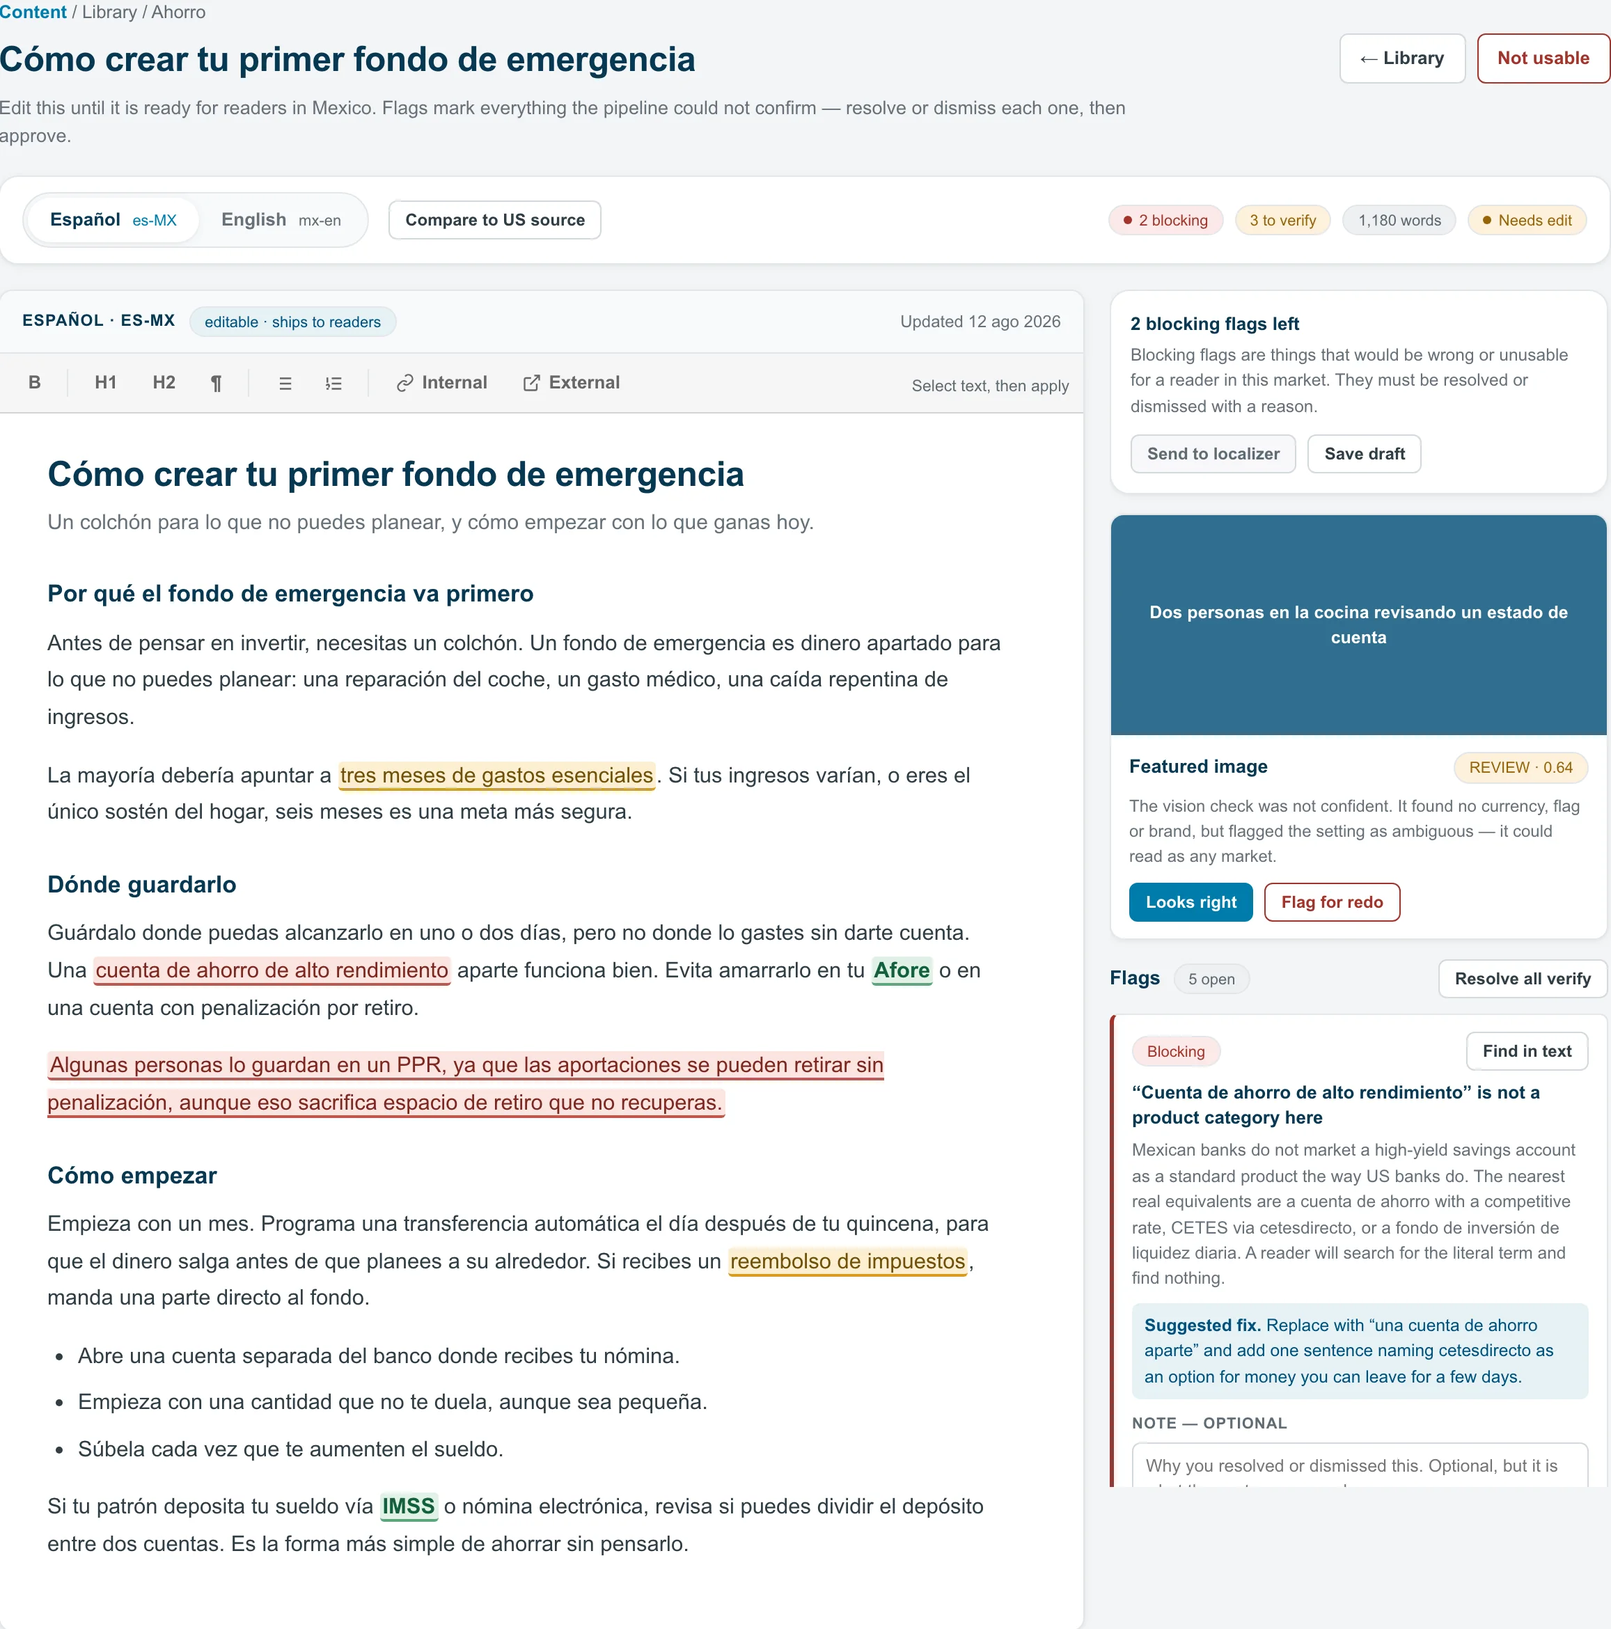
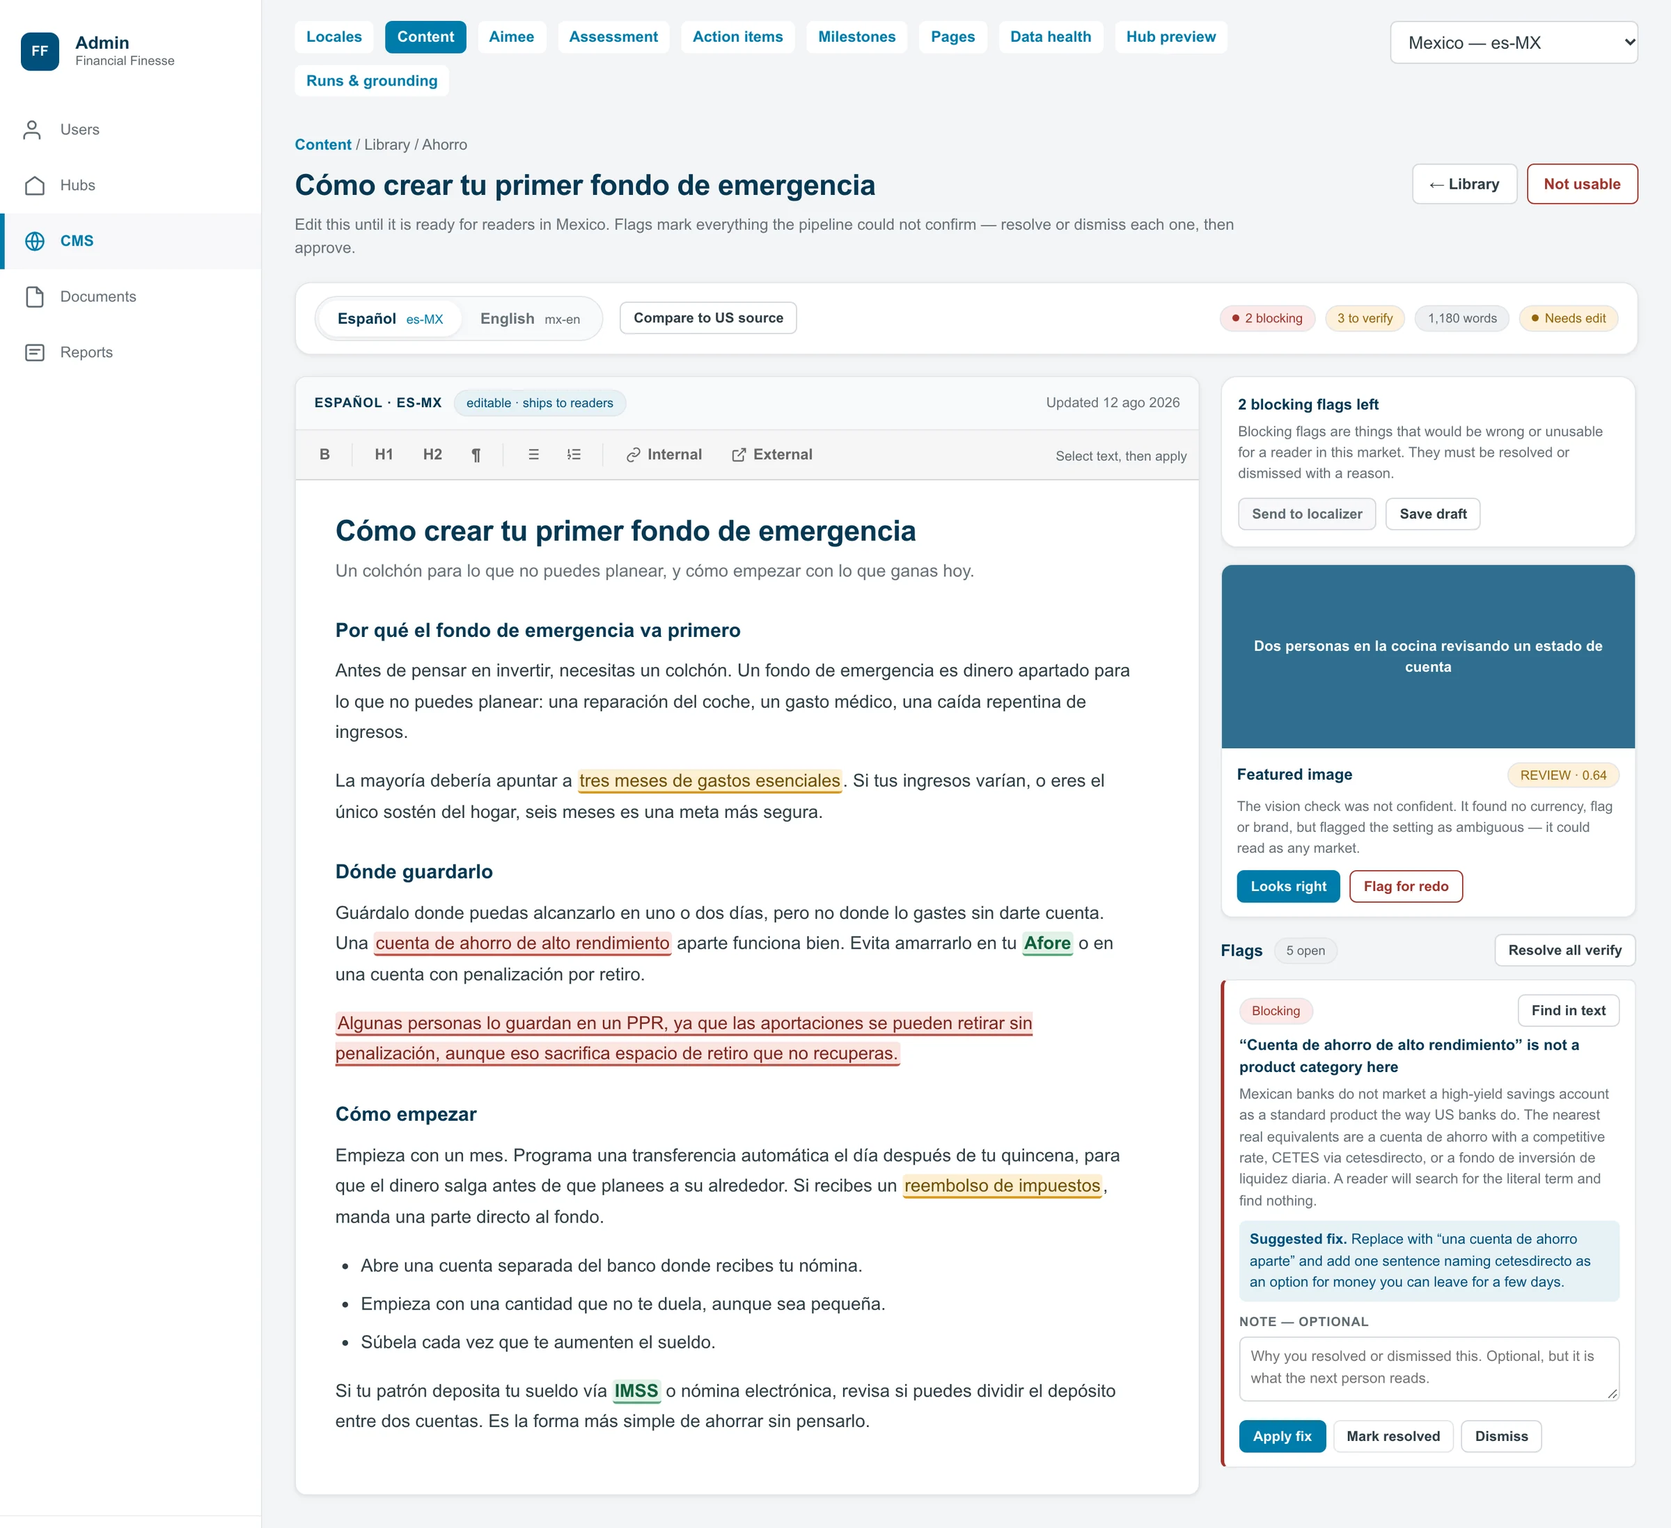
Studio case study: plain, conversational headlines, the move into the internal CMS as its own story, and the review screenshot re-rendered whole.

diff --git a/work/global-content-studio/index.html b/work/global-content-studio/index.html
@@ -67,7 +67,7 @@
         <div class="hero-facts fade-up" style="transition-delay:130ms">
           <div class="hero-fact"><div class="hero-fact-val">70</div><div class="hero-fact-label">Countries planned by the end of 2026</div></div>
           <div class="hero-fact"><div class="hero-fact-val">25</div><div class="hero-fact-label">Markets live today, Sep 2026</div></div>
-          <div class="hero-fact"><div class="hero-fact-val">8,118</div><div class="hero-fact-label">Localized variants in the live index</div></div>
+          <div class="hero-fact"><div class="hero-fact-val">8,118</div><div class="hero-fact-label">Localized pieces, live today</div></div>
           <div class="hero-fact"><div class="hero-fact-val">4 wk</div><div class="hero-fact-label">First commit to launch QA, solo</div></div>
         </div>
 
@@ -89,18 +89,18 @@
       <!-- 01 · AT A GLANCE -->
       <section class="section" id="glance">
         <div class="section-head fade-up">
-          <div><span class="section-n">01 · At a glance</span><h2>I saw the gap, built v1 alone, and rebuilt it twice with engineers</h2></div>
+          <div><span class="section-n">01 · At a glance</span><h2>The short version</h2></div>
           <p class="section-lead">Nobody asked for this. I named the risk, built the first version myself, and carried it through two rebuilds as the company made it part of its platform.</p>
         </div>
         <div class="glance fade-up">
           <div><h3>The problem</h3><p>Writers drafted on personal AI tools. Drafts drifted off-voice, and nobody recorded which claims had been checked. Then the company set its sights on new markets.</p></div>
           <div><h3>The bet</h3><p>A studio that already knows our voice, our compliance rules, and each market's facts, with a person signing off on everything.</p></div>
-          <div><h3>My role</h3><p>v1 designed and coded solo. In v2 and v3 I specced and built the review experience while engineers rebuilt the pipeline.</p></div>
+          <div><h3>My role</h3><p>I designed and coded the first version alone. After that, I designed and built the review screens while engineers rebuilt the engine.</p></div>
         </div>
         <div class="rows fade-up">
           <div class="row"><h3>Team</h3><p>v1 solo · v2 and v3 with two engineers · localizers reviewing the output</p></div>
           <div class="row"><h3>Built with</h3><p>TypeScript · Lit · React · Python · a Cloudflare Worker · Azure · Anthropic and Gemini APIs · built with Claude Code</p></div>
-          <div class="row"><h3>Status</h3><p>In production · 8,118 localized variants across 28 locales, Sep 8, 2026</p></div>
+          <div class="row"><h3>Status</h3><p>Live · 8,118 localized pieces across 28 languages and regions, Sep 8, 2026</p></div>
         </div>
       </section>
 
@@ -108,13 +108,13 @@
       <section class="section" id="v1">
         <span id="architecture" class="anchor-alias" aria-hidden="true"></span>
         <div class="section-head fade-up">
-          <div><span class="section-n">02 · v1, built alone</span><h2>Four weeks from first commit to launch QA</h2></div>
-          <p class="section-lead">Every draft carries the voice pillars, the compliance rules, and the schema for its content type. The model cites a source or flags the claim.</p>
+          <div><span class="section-n">02 · v1, built alone</span><h2>I built the first version alone, in four weeks</h2></div>
+          <p class="section-lead">Every draft starts with our voice, our compliance rules, and the right format. If the AI can't point to a source for a fact, it flags it for a person.</p>
         </div>
         <div class="screens fade-up">
           <figure class="screen">
             <div class="frame"><img src="/images/Global Content Studio Case Study/gcs-korean.webp" alt="The authoring studio drafting a Korean quiz about saving for a home, with an Accuracy Check panel listing five claims to confirm, each with the figure in question and the official source to check" loading="lazy" width="2400" height="1483"></div>
-            <figcaption><b>Uncertainty shown, not hidden</b>Five claims the model couldn't tie to a source, each with the exact figure and the government page to check. "5 to review" is a to-do, not a score.</figcaption>
+            <figcaption><b>Uncertainty shown, not hidden</b>Five facts the AI couldn't tie to a source, each with the exact figure and the government page to check. "5 to review" is a to-do, not a score.</figcaption>
           </figure>
         </div>
       </section>
@@ -123,8 +123,8 @@
       <section class="section" id="turn">
         <span id="atlas" class="anchor-alias" aria-hidden="true"></span>
         <div class="section-head fade-up">
-          <div><span class="section-n">03 · Going global</span><h2>Localizing means rewriting for the market</h2></div>
-          <p class="section-lead">"Contribute to your 401(k)" in French is still wrong when every word is right. Each article gets a fit check, local research, a rewrite, a separate verify pass, and a localizer's sign-off.</p>
+          <div><span class="section-n">03 · Going global</span><h2>Translating wasn't enough, so we rewrite for each country</h2></div>
+          <p class="section-lead">"Contribute to your 401(k)" in French is still wrong when every word is right. So each article gets checked for fit, researched locally, rewritten, double-checked, and signed off by a local reviewer.</p>
         </div>
         <table class="terms fade-up" aria-label="How the same US term is rewritten per market">
           <thead><tr><th>US source</th><th>Canada</th><th>United Kingdom</th></tr></thead>
@@ -145,7 +145,7 @@
           </figure>
         </div>
         <div class="stats stats--three fade-up">
-          <div><div class="stat-val">3,512</div><p class="stat-label">Variants in one four-day run, June 1–4, 2026, bringing ten locales live</p></div>
+          <div><div class="stat-val">3,512</div><p class="stat-label">Pieces localized in four days, June 1–4, 2026, bringing ten new markets live</p></div>
           <div><div class="stat-val">1,575</div><p class="stat-label">On the peak day, June 3</p></div>
           <div><div class="stat-val">27</div><p class="stat-label">Locales with live content by August</p></div>
         </div>
@@ -157,24 +157,24 @@
           <div><span class="section-n">04 · Decisions</span><h2>Four calls I'd make again</h2></div>
         </div>
         <div class="rows fade-up">
-          <div class="row"><h3>A per-locale wiki, not open-web search</h3><p>Financial facts have to be ours. Web search feeds the wiki; it never bypasses it.</p></div>
-          <div class="row"><h3>Five model calls per article, not one</h3><p>One-pass drafts kept US framing that no check could see. Five passes cost more and caught it.</p></div>
-          <div class="row"><h3>The score routes; it doesn't gate</h3><p>The model grading itself decides what a reviewer sees first. There is no publish threshold in the code, on purpose.</p></div>
-          <div class="row"><h3>Approved is a state automation can't cross</h3><p>Runs skip approved work. Re-localizing it takes a named, explicit request.</p></div>
+          <div class="row"><h3>Our own fact library, not the open web</h3><p>Financial facts have to be ours. The web can add to the library, but it never replaces it.</p></div>
+          <div class="row"><h3>Five careful passes, not one fast one</h3><p>One quick pass kept US habits no check could catch. Five passes cost more and caught them.</p></div>
+          <div class="row"><h3>The AI's score doesn't decide what ships</h3><p>It only decides what a reviewer sees first. There's no auto-publish setting, on purpose.</p></div>
+          <div class="row"><h3>Approved means approved</h3><p>Once a person approves an article, the tool won't touch it again unless someone asks for that article by name.</p></div>
         </div>
       </section>
 
       <!-- 05 · WHAT BROKE -->
       <section class="section" id="what-broke">
         <div class="section-head fade-up">
-          <div><span class="section-n">05 · What broke</span><h2>It worked. Then it hit the limits of a tool one person built.</h2></div>
-          <p class="section-lead">I wrote down four failures. They open the spec for the next version.</p>
+          <div><span class="section-n">05 · What broke</span><h2>It worked, until it didn't</h2></div>
+          <p class="section-lead">A tool one person built hit its limits. I wrote down four problems, and they became the plan for the next version.</p>
         </div>
         <div class="rows fade-up">
           <div class="row"><h3><small>01</small>Lost edits</h3><p>A re-run replaced work a localizer had corrected. <strong>On three reviewed articles, none of the reviewed sentences survived.</strong></p></div>
           <div class="row"><h3><small>02</small>Flags hard to act on</h3><p>One Bulgarian run raised <strong>630 flags on 445 articles</strong>, 78% of them "check this number", in a separate tab with no action.</p></div>
           <div class="row"><h3><small>03</small>No audit trail</h3><p>A name prompt in the browser stood in for sign-in. <strong>Nobody could say who approved what.</strong></p></div>
-          <div class="row"><h3><small>04</small>Slow at scale</h3><p>Every request parsed a <strong>3.5 MB index</strong>, and the Worker hit its CPU limit.</p></div>
+          <div class="row"><h3><small>04</small>Slow at scale</h3><p>Every request read a <strong>3.5 MB file</strong>, and the server ran out of time.</p></div>
         </div>
       </section>
 
@@ -182,24 +182,20 @@
       <section class="section" id="v2">
         <span id="v3" class="anchor-alias" aria-hidden="true"></span>
         <div class="section-head fade-up">
-          <div><span class="section-n">06 · v2 and v3, with engineering</span><h2>Engineers rebuilt the pipeline. I built what people touch.</h2></div>
-          <p class="section-lead">v2 moved localization to Python on Azure, and I built the review console and its API. v3 put the same review inside the company's admin platform, with an editor for people who don't write markup.</p>
+          <div><span class="section-n">06 · Moving in</span><h2>Then we moved it into our CMS, so there's one login</h2></div>
+          <p class="section-lead">Engineers rebuilt the engine behind it, and I designed and built the review screens. Then we brought the whole thing into the CMS our team already uses, so reviewers sign in once, with the same roles as everything else.</p>
         </div>
-        <div class="screens screens--two fade-up">
+        <div class="screens fade-up">
           <figure class="screen">
-            <div class="frame"><img src="/images/Global Content Studio Case Study/v2-review-console-flags.webp" alt="The v2 review console prototype: a Spanish article for Mexico with a flag rail of Must fix and Check cards, each with Apply, Fix myself, and Dismiss. Approve is disabled with five flags open." loading="lazy" width="2880" height="1800"></div>
-            <figcaption><b>v2 · the review console</b>A flag rail with Apply, Fix myself, and Dismiss. Approve stays off while flags are open. Prototype, demo content.</figcaption>
-          </figure>
-          <figure class="screen">
-            <div class="frame"><img src="/images/Global Content Studio Case Study/v3-review-wysiwyg.webp" alt="The v3 review workspace prototype: a Spanish article for Mexico in a WYSIWYG editor with inline highlighted flags and a blocking flag explaining that a high-yield savings account is not a product category in Mexico" loading="lazy" width="2314" height="2340"></div>
-            <figcaption><b>v3 · inside the admin platform</b>Flags sit in the text. The editor opens only if it can reproduce the article exactly. Prototype, demo content.</figcaption>
+            <div class="frame"><img src="/images/Global Content Studio Case Study/v3-review-wysiwyg.webp" alt="The review screen inside the company's CMS: the CMS sidebar on the left, a Spanish article for Mexico in an editor with highlighted flags, a featured-image check, and a blocking flag explaining that a high-yield savings account is not a product category in Mexico, with a suggested fix" loading="lazy" width="2400" height="2195"></div>
+            <figcaption><b>Inside the CMS</b>The same sidebar and sign-in as every other admin task. Flags sit right in the text, each with a suggested fix. Prototype, demo content.</figcaption>
           </figure>
         </div>
-        <div class="rows fade-up" aria-label="Each v1 failure and its fix">
-          <div class="row"><h3><small>Lost edits</small>Their own copy</h3><p>The reviewer's text is its own field, and a stale save is refused instead of winning.</p></div>
-          <div class="row"><h3><small>Flags</small>Plain labels, three actions</h3><p><code>verification:freshness</code> became "Check this number".</p></div>
-          <div class="row"><h3><small>Audit trail</small>Roles on the server</h3><p>A localizer is locked to their market, only a publisher can release, and every article keeps a revision log.</p></div>
-          <div class="row"><h3><small>Scale</small>Only what's on screen</h3><p>Stored counts and 50 items per page.</p></div>
+        <div class="rows fade-up" aria-label="Each v1 problem and how we fixed it">
+          <div class="row"><h3><small>Lost edits</small>Your edits are safe</h3><p>A reviewer's text is saved on its own, and an out-of-date save can't overwrite it.</p></div>
+          <div class="row"><h3><small>Flags</small>Plain words, clear actions</h3><p>"verification:freshness" became "Check this number", with Apply, Fix myself, and Dismiss.</p></div>
+          <div class="row"><h3><small>Who did what</small>One sign-in, real roles</h3><p>Reviewers use their work sign-in and only see their country. Only a publisher can release, and every article keeps its history.</p></div>
+          <div class="row"><h3><small>Speed</small>Load what's on screen</h3><p>50 items at a time, with counts stored ahead.</p></div>
         </div>
       </section>
 
@@ -208,13 +204,13 @@
         <span id="process" class="anchor-alias" aria-hidden="true"></span>
         <span id="ai-assisted" class="anchor-alias" aria-hidden="true"></span>
         <div class="section-head fade-up">
-          <div><span class="section-n">07 · Designing the AI</span><h2>A person always outranks the model</h2></div>
-          <p class="section-lead">Nothing is trained. Everything is prompted, grounded in a per-locale wiki, checked by a separate pass, and approved by a person.</p>
+          <div><span class="section-n">07 · Designing the AI</span><h2>A person always makes the final call</h2></div>
+          <p class="section-lead">We never trained a model. The AI writes from a fact library we keep for each market, a second pass checks its work, and a person approves it.</p>
         </div>
         <div class="rows fade-up">
-          <div class="row"><h3>A skeptical second read</h3><p>A verify pass reads each draft as a native reader would, with typed failures and a redo loop. I wrote it with Claude Code. A plain check then strips US links and terms.</p></div>
-          <div class="row"><h3>Pictures get the same care</h3><p>The header image gets a cultural read, a brief, a check, and a person. A localizer's "Flag for redo" beats any score.</p></div>
-          <div class="row"><h3>Checked, not assumed</h3><p>221 tests cover the gate, the policy, the rewrite, and the index. Of 75 UK articles the fit check dropped, 62 couldn't honestly exist there.</p></div>
+          <div class="row"><h3>A second read</h3><p>A second AI pass reads each draft like a local would and sends it back if something's off. A simple check then removes US-only links and terms.</p></div>
+          <div class="row"><h3>Photos too</h3><p>Every header photo is checked for the country, and a reviewer's "Flag for redo" beats any score.</p></div>
+          <div class="row"><h3>Tested</h3><p>221 automated tests. Of 75 articles the tool held back from the UK, 62 truly didn't apply there.</p></div>
         </div>
       </section>
 
@@ -222,18 +218,18 @@
       <section class="section" id="impact">
         <span id="proof" class="anchor-alias" aria-hidden="true"></span>
         <div class="section-head fade-up">
-          <div><span class="section-n">08 · Impact</span><h2>In production, with a person between the model and the member</h2></div>
+          <div><span class="section-n">08 · Impact</span><h2>Live in 25 markets, and a person checks every article</h2></div>
         </div>
         <div class="stats fade-up">
-          <div><div class="stat-val">25</div><p class="stat-label">Markets with published or approved content, of 28 locales. Sep 8, 2026</p></div>
-          <div><div class="stat-val">8,118</div><p class="stat-label">Localized variants from 592 English source pieces</p></div>
-          <div><div class="stat-val">43</div><p class="stat-label">Locale grounding files the v2 pipeline runs on</p></div>
+          <div><div class="stat-val">25</div><p class="stat-label">Markets with published or approved content. Sep 8, 2026</p></div>
+          <div><div class="stat-val">8,118</div><p class="stat-label">Localized pieces, from 592 English originals</p></div>
+          <div><div class="stat-val">43</div><p class="stat-label">Market fact libraries the tool writes from</p></div>
           <div><div class="stat-val">680+</div><p class="stat-label">Commits of mine across three repos, Apr to Oct 2026</p></div>
         </div>
         <div class="screens fade-up">
           <figure class="screen screen--narrow">
             <div class="frame"><img src="/images/Global Content Studio Case Study/gcs-impact.webp" alt="A localized article, The £100 Rule and Your Child's Tax-Free Allowance, published and live in the Financial Finesse member product for the UK market" loading="lazy" width="2400" height="1386"></div>
-            <figcaption><b>Where the pipeline ends</b>A UK article, live in the member product. The £100 rule is HMRC's, not a translated IRS figure.</figcaption>
+            <figcaption><b>The finished result</b>A UK article, live in the member product. The £100 rule is HMRC's, not a translated IRS figure.</figcaption>
           </figure>
         </div>
         <p class="note fade-up">Per the company, this capability helped win the Federal Reserve as a customer. Counts come from the live content index and the repos; the code is Financial Finesse's and private.</p>
